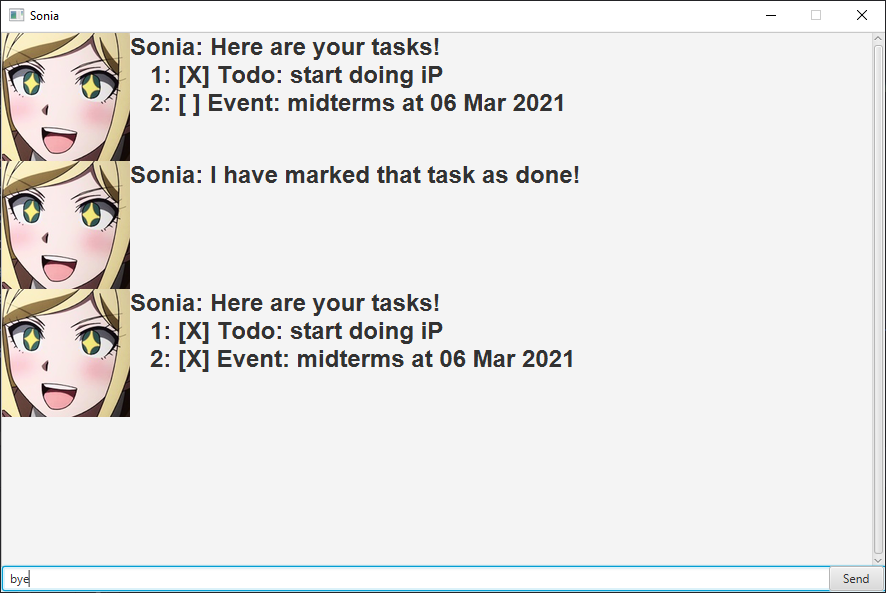
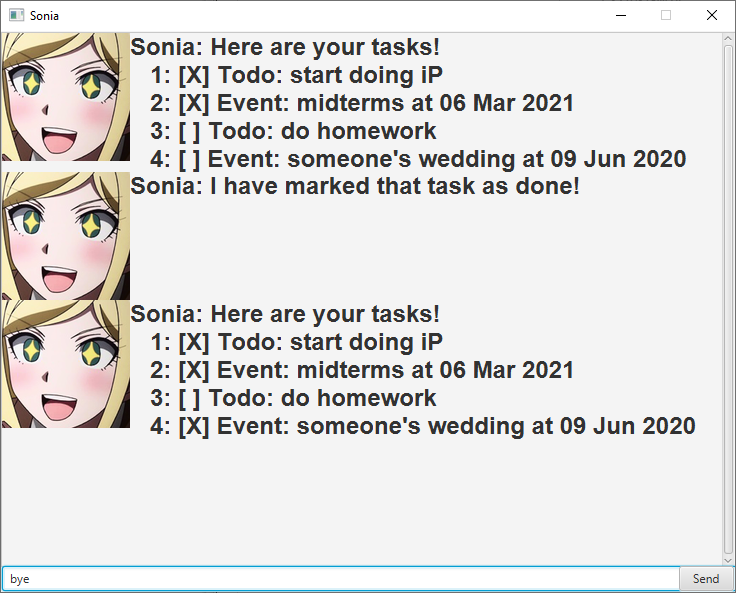
refactor: decrease window width

Changed region(s): [[0.0, 0.0, 1.0, 1.0], [0.9062, 0.0, 1.0, 0.0304], [0.0, 0.941, 0.0625, 1.0]]

diff --git a/src/main/java/Duke.java b/src/main/java/Duke.java
@@ -46,11 +46,11 @@ public class Duke extends Application {
         stage.setTitle("Sonia");
         stage.setResizable(false);
         stage.setMinHeight(600.0);
-        stage.setMinWidth(900.0);
+        stage.setMinWidth(750.0);
 
-        mainLayout.setPrefSize(900.0, 600.0);
+        mainLayout.setPrefSize(750.0, 600.0);
 
-        scrollPane.setPrefSize(885, 535);
+        scrollPane.setPrefSize(735, 535);
         scrollPane.setHbarPolicy(ScrollPane.ScrollBarPolicy.NEVER);
         scrollPane.setVbarPolicy(ScrollPane.ScrollBarPolicy.ALWAYS);
 
@@ -60,7 +60,7 @@ public class Duke extends Application {
         dialogContainer.setMinHeight(Region.USE_PREF_SIZE);
         dialogContainer.setPrefHeight(Region.USE_COMPUTED_SIZE);
 
-        userInput.setPrefWidth(885.0);
+        userInput.setPrefWidth(735.0);
 
         sendButton.setPrefWidth(55.0);
 
